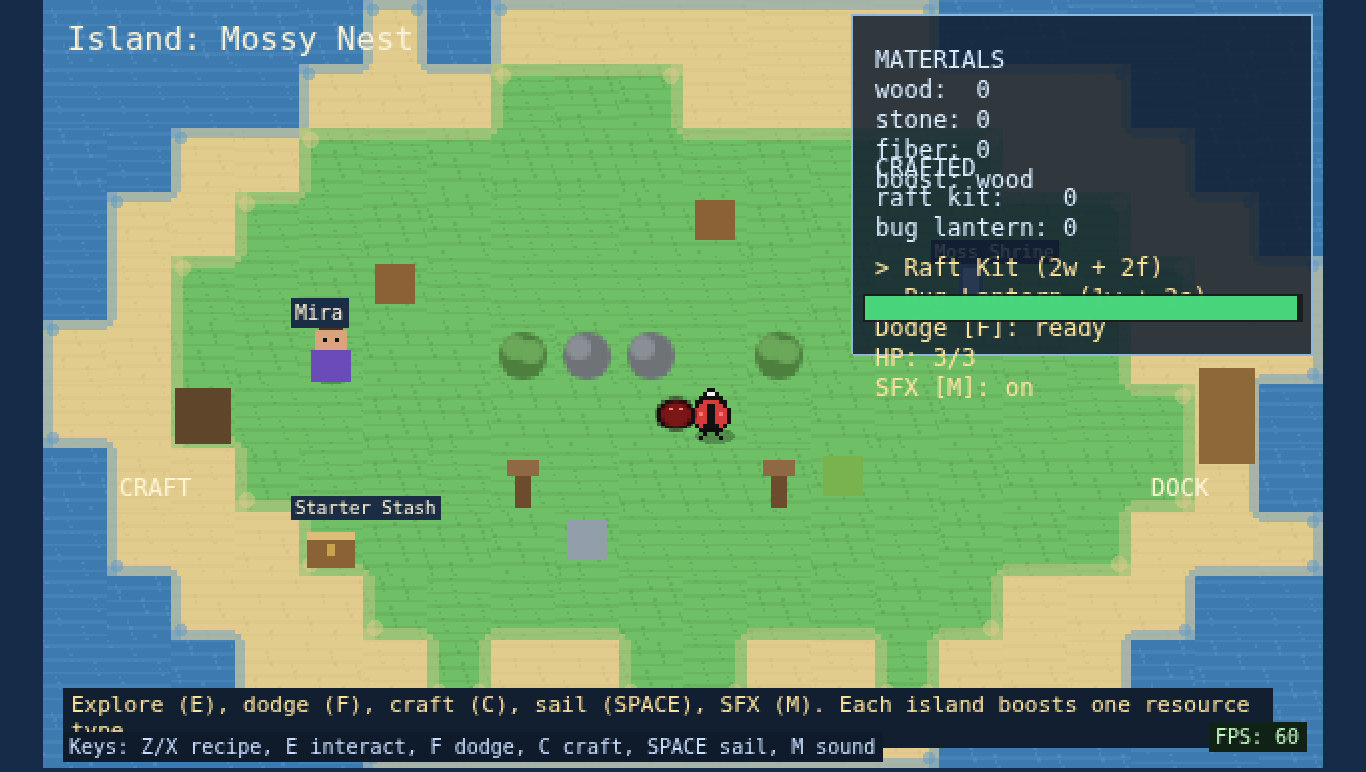
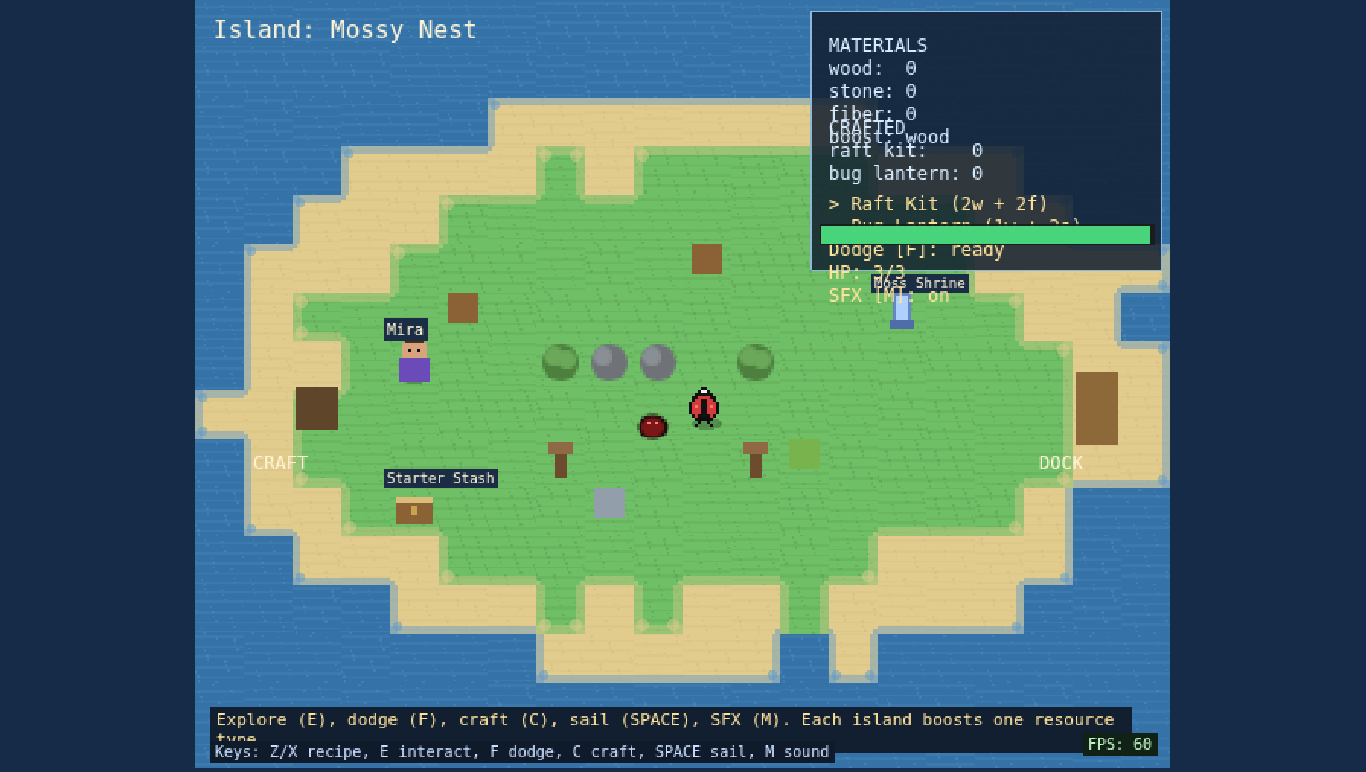
Improve dodge readability - Enhanced cooldown pulse and invulnerability VFX
- Increased dodge aura intensity with brighter purple color scheme and thicker stroke (6px)
- More dramatic and obvious cooldown pulse: faster animation (75fps), higher amplitude (0.6-1.0), and stronger red glow with thicker stroke (7px)
- Added growing glow effect during final 50% of cooldown (progress-based intensity increase)
- Improved invulnerability pulse with brighter white-cyan tint for better visibility
- All VFX now pulse at distinct rates for clear state differentiation (55fps vs 75fps)

diff --git a/src/main.ts b/src/main.ts
@@ -86,8 +86,11 @@ const MAP_PIXEL_HEIGHT = TILE * MAP_H
 
 const VIEW_WIDTH = typeof window !== 'undefined' ? window.innerWidth : 1280
 const VIEW_HEIGHT = typeof window !== 'undefined' ? window.innerHeight : 720
+const IS_PORTRAIT_VIEW = VIEW_HEIGHT > VIEW_WIDTH
 const GAME_WIDTH = MAP_PIXEL_WIDTH
-const GAME_HEIGHT = Math.max(MAP_PIXEL_HEIGHT, Math.min(1800, Math.round((GAME_WIDTH * VIEW_HEIGHT) / Math.max(1, VIEW_WIDTH))))
+const GAME_HEIGHT = IS_PORTRAIT_VIEW
+  ? MAP_PIXEL_HEIGHT + 220
+  : Math.max(MAP_PIXEL_HEIGHT, Math.min(900, Math.round((GAME_WIDTH * VIEW_HEIGHT) / Math.max(1, VIEW_WIDTH))))
 const WORLD_OFFSET_Y = Math.floor((GAME_HEIGHT - MAP_PIXEL_HEIGHT) / 2)
 
 class AdventureScene extends Phaser.Scene {
@@ -147,6 +150,7 @@ class AdventureScene extends Phaser.Scene {
   private hudExpanded = true
   private fpsTick = 0
   private sfxEnabled = true
+  private hasSavedZoom = false
   private audioCtx?: AudioContext
   private audioUnlocked = false
 
@@ -301,6 +305,8 @@ class AdventureScene extends Phaser.Scene {
     this.createPlayer()
     this.createHotspots()
     this.physics.world.setBounds(0, WORLD_OFFSET_Y, MAP_PIXEL_WIDTH, MAP_PIXEL_HEIGHT)
+    // Keep camera bounds full-height so portrait mobile doesn't show giant top/bottom letterbox bands.
+    this.cameras.main.setBounds(0, 0, MAP_PIXEL_WIDTH, GAME_HEIGHT)
     this.setupInput()
     this.createHud()
     this.createMobileControls()
@@ -967,12 +973,12 @@ class AdventureScene extends Phaser.Scene {
     const compact = this.mobileControlsEnabled || this.scale.parentSize.width < 900
     const portrait = this.scale.parentSize.height > this.scale.parentSize.width
 
-    if (portrait && this.mobileControlsEnabled) {
+    if (portrait) {
       this.hudToggleButton.setVisible(true).setPosition(GAME_WIDTH - 28, 16)
       this.hudToggleText.setVisible(true).setPosition(GAME_WIDTH - 28, 16).setText(this.hudExpanded ? 'X' : 'INV')
 
       this.islandLabel.setFontSize(13).setPosition(8, 8)
-      this.statusText.setPosition(8, 26).setFontSize(10).setWordWrapWidth(GAME_WIDTH - (this.hudExpanded ? 206 : 16))
+      this.statusText.setPosition(8, GAME_HEIGHT - 92).setFontSize(10).setWordWrapWidth(GAME_WIDTH - (this.hudExpanded ? 206 : 16))
       this.keyboardHintText.setVisible(false)
 
       if (this.hudExpanded) {
@@ -1352,6 +1358,16 @@ class AdventureScene extends Phaser.Scene {
 
     this.player.setPosition(10 * TILE + HALF_TILE, WORLD_OFFSET_Y + 6 * TILE + HALF_TILE)
     this.playerShadow?.setPosition(this.player.x, this.player.y + 10)
+
+    const portrait = this.scale.parentSize.height > this.scale.parentSize.width
+    if (!this.hasSavedZoom) {
+      this.cameras.main.setZoom(portrait ? 1.6 : 1)
+    } else if (portrait && this.cameras.main.zoom < 1.5) {
+      // Prevent old saved zoom values from making mobile view too tiny.
+      this.cameras.main.setZoom(1.5)
+    }
+    this.cameras.main.startFollow(this.player, true, 0.12, 0.12)
+
     this.updateHud()
   }
 
@@ -1832,6 +1848,7 @@ class AdventureScene extends Phaser.Scene {
 
       if (typeof parsed.cameraZoom === 'number') {
         this.cameras.main.setZoom(Phaser.Math.Clamp(parsed.cameraZoom, 0.75, 2.25))
+        this.hasSavedZoom = true
       }
     } catch {
       // ignore corrupted save
